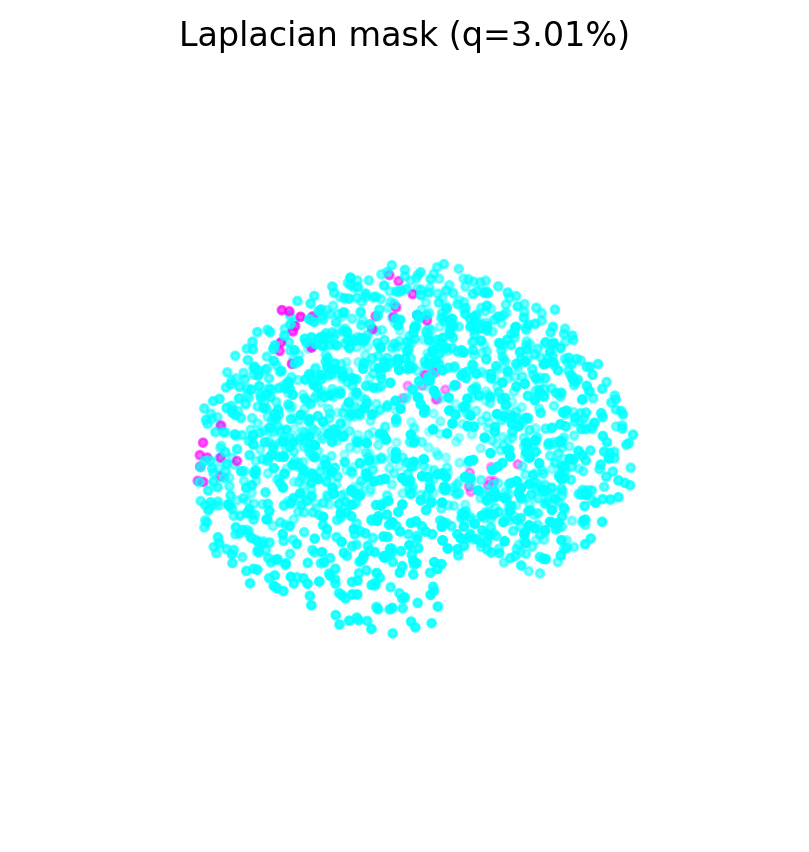
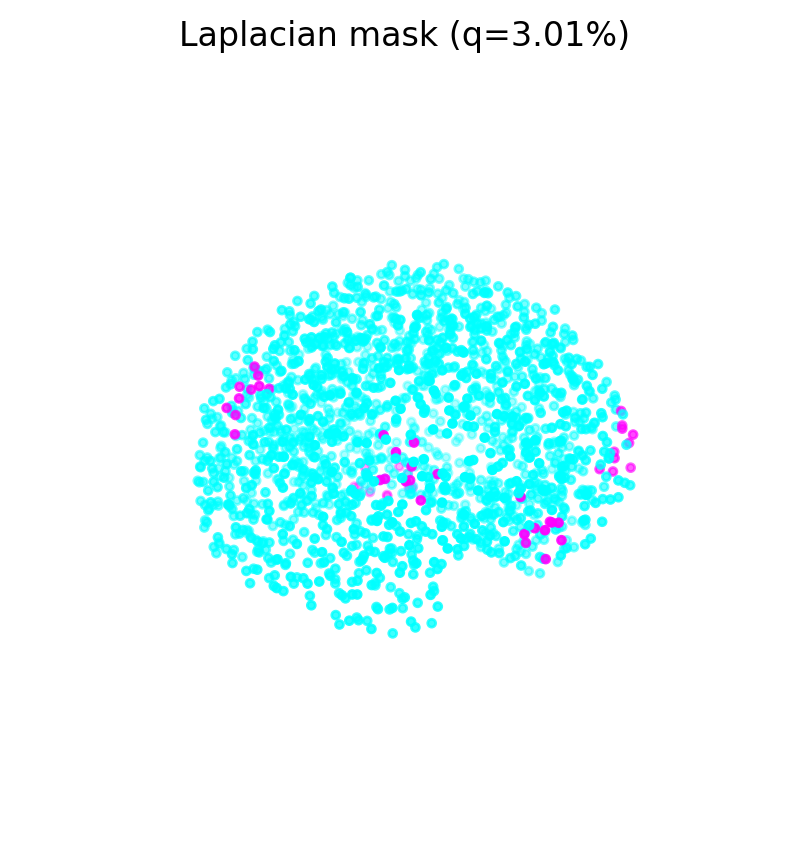
Generating testcase in both regions

diff --git a/compute_eeg.py b/compute_eeg.py
@@ -5,6 +5,65 @@ import numpy as np
 from scipy.signal import butter, filtfilt
 from scipy.spatial.distance import cdist
 
+def make_multiregion_silence_mask_bilateral(src_xyz, K, per_region_k, enforce_bilateral=True):
+    """
+    Generate a multi-region silent mask X_act with K regions,
+    each region ~per_region_k nodes, and (optionally) enforce
+    that the overall silent set covers both hemispheres.
+    """
+    src_xyz = np.asarray(src_xyz)
+    p = src_xyz.shape[0]
+    X_act = np.zeros(p, dtype=bool)
+
+    # --- split by hemisphere using x-coordinate ---
+    x = src_xyz[:, 0]
+    eps = 1e-6
+    left_idx  = np.where(x < -eps)[0]
+    right_idx = np.where(x >  eps)[0]
+    mid_idx   = np.where(np.abs(x) <= eps)[0]  # midline (rare)
+
+    # Fallback: if we can't split hemispheres, just do old behavior
+    if len(left_idx) == 0 or len(right_idx) == 0:
+        for _ in range(K):
+            center = np.random.randint(p)
+            d = np.linalg.norm(src_xyz - src_xyz[center], axis=1)
+            region = np.argsort(d)[:per_region_k]
+            X_act[region] = True
+        return X_act
+
+    # --- decide how many regions per hemisphere ---
+    if enforce_bilateral and K >= 2:
+        K_left = K // 2
+        K_right = K - K_left
+    else:
+        # No bilateral enforcement: just sample anywhere
+        K_left = 0
+        K_right = 0
+
+    # --- left hemisphere regions ---
+    for _ in range(K_left):
+        c = np.random.choice(left_idx)
+        d = np.linalg.norm(src_xyz[left_idx] - src_xyz[c], axis=1)
+        region = left_idx[np.argsort(d)[:per_region_k]]
+        X_act[region] = True
+
+    # --- right hemisphere regions ---
+    for _ in range(K_right):
+        c = np.random.choice(right_idx)
+        d = np.linalg.norm(src_xyz[right_idx] - src_xyz[c], axis=1)
+        region = right_idx[np.argsort(d)[:per_region_k]]
+        X_act[region] = True
+
+    # --- if K > (K_left+K_right), place remaining regions anywhere ---
+    remaining = K - (K_left + K_right)
+    for _ in range(remaining):
+        c = np.random.randint(p)
+        d = np.linalg.norm(src_xyz - src_xyz[c], axis=1)
+        region = np.argsort(d)[:per_region_k]
+        X_act[region] = True
+
+    return X_act
+
 
 def butter_lowpass_filter(data, fs, cutoff=90.0, order=4):
     """
@@ -44,7 +103,16 @@ def simulate_multiregion_silence_and_eeg(
     p = src_xyz.shape[0]
     n = L.shape[0]
 
-    # Disallow midline band
+   
+
+    # ---- NEW: bilateral mask (left + right hemispheres) ----
+    X_act = make_multiregion_silence_mask_bilateral(
+    src_xyz,
+    K=K,
+    per_region_k=per_region_k,
+    enforce_bilateral=True,)
+
+    """ # Disallow midline band
     allowed = np.where(
         (src_xyz[:, 0] <= -mid_gap_mm) | (src_xyz[:, 0] >= mid_gap_mm)
     )[0]
@@ -67,6 +135,7 @@ def simulate_multiregion_silence_and_eeg(
 
     X_act = np.zeros(p, dtype=bool)
     X_act[silence_idx] = True  # True = silent
+    p = src_xyz.shape[0]"""
 
     # Source covariance (exp decay)
     gamma = 0.12
